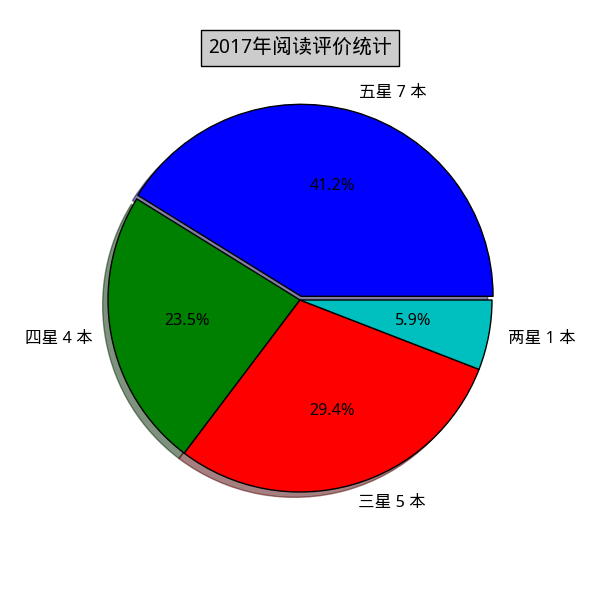
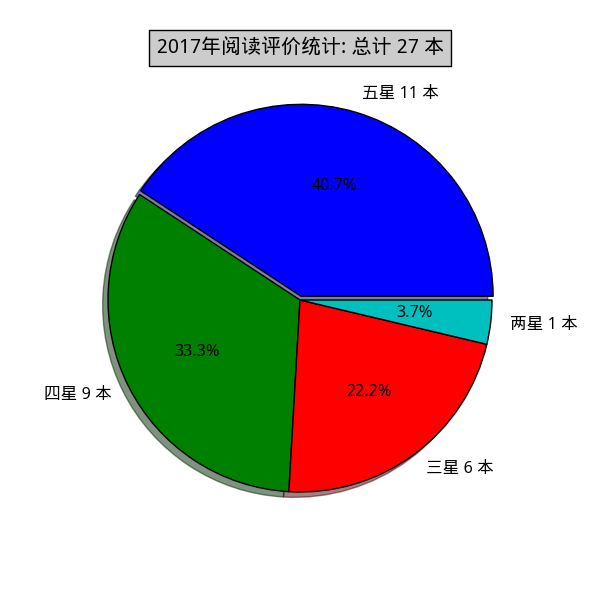
update annual statistics.

diff --git a/douban_reading_statistics/annualStatistics.py b/douban_reading_statistics/annualStatistics.py
@@ -1,5 +1,5 @@
 #!/usr/bin/env python
-#! encoding=utf-8
+# encoding=utf-8
 
 # Author        : kesalin@gmail.com
 # Blog          : http://luozhaohui.github.io
@@ -7,6 +7,9 @@
 # Description   : Douban Reading Annual Statistics.
 # Version       : 1.0.0.0
 # Python Version: Python 2.7.3
+#
+# sudo apt-get install python-matplotlib
+# sudo apt-get install python-numpy python-scipy python-matplotlib ipython ipython-notebook python-pandas python-sympy python-nose
 #
 
 # data format:
@@ -95,11 +98,12 @@ def get_book_by_tag(books, tag):
 def output_by_rating_num(file, total, rating, books):
     count = len(books)
     if count > 0:
-        file.write(' > {0}图书 {1} 本，占比 {2:2.1f}%  \n'.format(num_to_kanji(rating), count, count * 100.0/total))
+        file.write(' > {0}图书 {1} 本，占比 {2:2.1f}%  \n'.format(
+            num_to_kanji(rating), count, count * 100.0/total))
 
-def output_tags(file, tags):
+def output_tags(file, tags, total):
     file.write('### 标签统计:\n')
-    title = u'{0}年阅读标签统计'.format(str(year))
+    title = u'{0}年阅读标签统计: 总计 {1} 本'.format(str(year), total)
     generate_pie(tags, title, get_tags_save_png_name())
     file.write('![标签统计]({0})\n\n'.format(get_tags_save_png_name()))
 
@@ -196,7 +200,7 @@ def analyze_book(books, tags):
     filter_dict = { key : rating_dict[key] for key in rating_dict.keys() if (rating_dict[key] > 0) }
     #items = sorted(filter_dict.iteritems(), key=lambda d:d[1], reverse = True)
     items = filter_dict.items()
-    title = u'{0}年阅读评价统计'.format(str(year))
+    title = u'{0}年阅读评价统计: 总计 {1} 本'.format(str(year), total)
     generate_pie(items, title, get_rating_save_png_name())
     file.write('![评价统计]({0})\n\n'.format(get_rating_save_png_name()))
 
@@ -211,7 +215,7 @@ def analyze_book(books, tags):
     tags = sorted(tags.items(), key=lambda d: d[1], reverse=True)
     #print tags
 
-    output_tags(file, tags)
+    output_tags(file, tags, total)
 
     file.write('\n')
 

diff --git a/douban_reading_statistics/2017doubanreading.md b/douban_reading_statistics/2017doubanreading.md
@@ -1,20 +1,25 @@
 ## 2017年阅读统计
-## 总计阅读 17 本
+## 总计阅读 27 本
 ### 评价统计:
 ![评价统计](2017_read_rate.png)
 
- > 五星图书 7 本，占比 41.2%  
- > 四星图书 4 本，占比 23.5%  
- > 三星图书 5 本，占比 29.4%  
- > 两星图书 1 本，占比 5.9%  
+ > 五星图书 11 本，占比 40.7%  
+ > 四星图书 9 本，占比 33.3%  
+ > 三星图书 6 本，占比 22.2%  
+ > 两星图书 1 本，占比 3.7%  
 
 ### 标签统计:
 ![标签统计](2017_read_tags.png)
 
  > 编程 12 本  
+ > 政治 6 本  
  > 历史 3 本  
+ > 经济 1 本  
+ > 社会 1 本  
+ > 科普 1 本  
  > 设计 1 本  
  > 英语 1 本  
+ > 育儿 1 本  
 
 ### 编程: 12 本
 #### No.1 C++ API设计
@@ -90,28 +95,90 @@
  > 我的评论：缺少架构图或流程图，关键节点不够突出，因此有点记流水帐或泛泛而谈的感觉。讲的和android内核关系不大，主要还是在framework层面。  
 
 
+### 政治: 6 本
+#### No.13 我也有一个梦想 : 近距离看美国之三
+ > 图书名称：[我也有一个梦想 : 近距离看美国之三](https://book.douban.com/subject/1014825/)  
+ > 豆瓣链接：[https://book.douban.com/subject/1014825/](https://book.douban.com/subject/1014825/)  
+ > 标签：政治        评分：五星  
+ > 我的评论：通过详细介绍民权法案产生、执行、深入民心的来龙去脉。非常精彩且富有思辨精神了介绍了美国种族融合过程，暂进式的社会与法制变革，体现了一个不断革新的民主社会如何通过一个个具体案件分析、反思、妥协，改进其社会制度。  
+
+#### No.14 如彗星划过夜空 : 近距离看美国之四
+ > 图书名称：[如彗星划过夜空 : 近距离看美国之四](https://book.douban.com/subject/1762869/)  
+ > 豆瓣链接：[https://book.douban.com/subject/1762869/](https://book.douban.com/subject/1762869/)  
+ > 标签：政治        评分：五星  
+ > 我的评论：这本书通过制宪会议以及五角大楼文件案引发的对宪法第一修正案新闻自由原则的考验，概览了宪法诞生的环境、妥协、实践以及不断地完善。美国的幸运在于，他们在没有构建出庞大的政府以前，就已经有一批懂得分权与制衡的政治绅士以及宪法指导。宪法，政府，民众三者是在一个互相妥协的过程中慢慢长大。  
+
+#### No.15 美国宪政历程 : 影响美国的25个司法大案
+ > 图书名称：[美国宪政历程 : 影响美国的25个司法大案](https://book.douban.com/subject/1144185/)  
+ > 豆瓣链接：[https://book.douban.com/subject/1144185/](https://book.douban.com/subject/1144185/)  
+ > 标签：政治        评分：五星  
+ > 我的评论：搭配林达的《近距离看美国》系列一起看，有对比、多角度看会更有趣。通俗易懂地通过一个个具体案件讲述美国人民怎样在分权与制衡理念下一步一步完善、更新他们的宪政观念与制度，尤其是在这个过程中最高法院如何一步一步建立和维护宪政的权威，当然也有错判与现实的妥协。民主可以说一种妥协制度。  
+
+#### No.16 历史深处的忧虑 : 近距离看美国之一
+ > 图书名称：[历史深处的忧虑 : 近距离看美国之一](https://book.douban.com/subject/1027191/)  
+ > 豆瓣链接：[https://book.douban.com/subject/1027191/](https://book.douban.com/subject/1027191/)  
+ > 标签：政治        评分：四星  
+ > 我的评论：这一本主要介绍权利法案即宪法修正案条文、含义以及案例，重点介绍了辛普森案。行文有点冗长，不够简练，但对了解美国政体，民情基调还是非常有帮助的。  
+
+#### No.17 总统是靠不住的 : 近距离看美国之二
+ > 图书名称：[总统是靠不住的 : 近距离看美国之二](https://book.douban.com/subject/1056315/)  
+ > 豆瓣链接：[https://book.douban.com/subject/1056315/](https://book.douban.com/subject/1056315/)  
+ > 标签：政治        评分：四星  
+ > 我的评论：用通俗易懂讲故事的形式，把美国政治体制中基于制约与均衡理念的三权分立讲述出来，非常适合入门了解美国政体、法制、选举等方面。尼克松水门事件分析得非常精彩。  
+
+#### No.18 一路走来一路读
+ > 图书名称：[一路走来一路读](https://book.douban.com/subject/1010888/)  
+ > 豆瓣链接：[https://book.douban.com/subject/1010888/](https://book.douban.com/subject/1010888/)  
+ > 标签：政治        评分：三星  
+ > 我的评论：书中提到的大部分案例在《近距离看美国》系列中基本都提到过，这一本可算是那个系统的花絮和外传吧。书中介绍了独具一格的美国南方小镇的自治状态。  
+
+
 ### 历史: 3 本
-#### No.13 中国法律与中国社会
+#### No.19 中国法律与中国社会
  > 图书名称：[中国法律与中国社会](https://book.douban.com/subject/1224279/)  
  > 豆瓣链接：[https://book.douban.com/subject/1224279/](https://book.douban.com/subject/1224279/)  
  > 标签：历史        评分：四星  
  > 我的评论：单就学术著作可评五星。透过对纲常名教剖析可以看到赤裸裸的吃人真相。中国过去的法，甚至是至现在的法律现实，都是法表儒里-搞有差别化对待，什么刑不上大夫、党内处分，几千年有啥变化？  
 
-#### No.14 开放中的变迁 : 再论中国社会超稳定结构
+#### No.20 开放中的变迁 : 再论中国社会超稳定结构
  > 图书名称：[开放中的变迁 : 再论中国社会超稳定结构](https://book.douban.com/subject/5906321/)  
  > 豆瓣链接：[https://book.douban.com/subject/5906321/](https://book.douban.com/subject/5906321/)  
  > 标签：历史        评分：四星  
  > 我的评论：用一个超稳定框架+意识形态的万能膏药来解释一切，不免有点武断和牵强，尤其是1924年之后的部分。我能说要集体文化来解释传统的一切，用个体文化来预示未来也可以么？总体来说，作者的一些观点与总结还是值得赞赏。  
 
-#### No.15 明治维新的国度
+#### No.21 明治维新的国度
  > 图书名称：[明治维新的国度](https://book.douban.com/subject/25962185/)  
  > 豆瓣链接：[https://book.douban.com/subject/25962185/](https://book.douban.com/subject/25962185/)  
  > 标签：历史        评分：三星  
  > 我的评论：广有余而深不足，内容较多前后重述，图多，搞得像游记类图书，贵在客观。对于不了解明治维新那一段变革，可以翻一翻。  
 
 
+### 经济: 1 本
+#### No.22 经济为什么会崩溃 : 鱼、美元和经济学
+ > 图书名称：[经济为什么会崩溃 : 鱼、美元和经济学](https://book.douban.com/subject/6743298/)  
+ > 豆瓣链接：[https://book.douban.com/subject/6743298/](https://book.douban.com/subject/6743298/)  
+ > 标签：经济        评分：五星  
+ > 我的评论：有趣有料，简明简短，正三观，经济学门外汉入门首选！  
+
+
+### 社会: 1 本
+#### No.23 优秀的绵羊
+ > 图书名称：[优秀的绵羊](https://book.douban.com/subject/26747208/)  
+ > 豆瓣链接：[https://book.douban.com/subject/26747208/](https://book.douban.com/subject/26747208/)  
+ > 标签：社会        评分：四星  
+ > 我的评论：在狭隘的精英教育下只顾成长的一代缺失了意义感、好奇心，这是社会阶层固化，各自只顾各自小圈子的必然现象。  
+
+
+### 科普: 1 本
+#### No.24 黑猩猩在召唤
+ > 图书名称：[黑猩猩在召唤](https://book.douban.com/subject/1951398/)  
+ > 豆瓣链接：[https://book.douban.com/subject/1951398/](https://book.douban.com/subject/1951398/)  
+ > 标签：科普        评分：四星  
+ > 我的评论：通过科学观察写成的有关黑猩猩的江湖，集科学性、故事性、启发性于一体，佩服作者的专注与热情。培养某个或某些兴趣是最好的成长。  
+
+
 ### 设计: 1 本
-#### No.16 设计心理学
+#### No.25 设计心理学
  > 图书名称：[设计心理学](https://book.douban.com/subject/4606471/)  
  > 豆瓣链接：[https://book.douban.com/subject/4606471/](https://book.douban.com/subject/4606471/)  
  > 标签：设计        评分：五星  
@@ -119,10 +186,18 @@
 
 
 ### 英语: 1 本
-#### No.17 把你的英语用起来！ : 原地复活你放下多年的英语
+#### No.26 把你的英语用起来！ : 原地复活你放下多年的英语
  > 图书名称：[把你的英语用起来！ : 原地复活你放下多年的英语](https://book.douban.com/subject/3748247/)  
  > 豆瓣链接：[https://book.douban.com/subject/3748247/](https://book.douban.com/subject/3748247/)  
  > 标签：英语        评分：三星  
  > 我的评论：路线图+资料汇总。作者主要推崇通过循序渐进地大量阅读与透析原著来提高英语水平。  
+
+
+### 育儿: 1 本
+#### No.27 游戏力 : 随时随地激活孩子天性中的合作与勇气
+ > 图书名称：[游戏力 : 随时随地激活孩子天性中的合作与勇气](https://book.douban.com/subject/6084402/)  
+ > 豆瓣链接：[https://book.douban.com/subject/6084402/](https://book.douban.com/subject/6084402/)  
+ > 标签：育儿        评分：四星  
+ > 我的评论：游戏是探索求知、亲情培养、社交情商、情绪调节多方面的灵丹妙药。洗澡的不听--玩水的乖乖来，这就是游戏力的魔力。  
 
 
